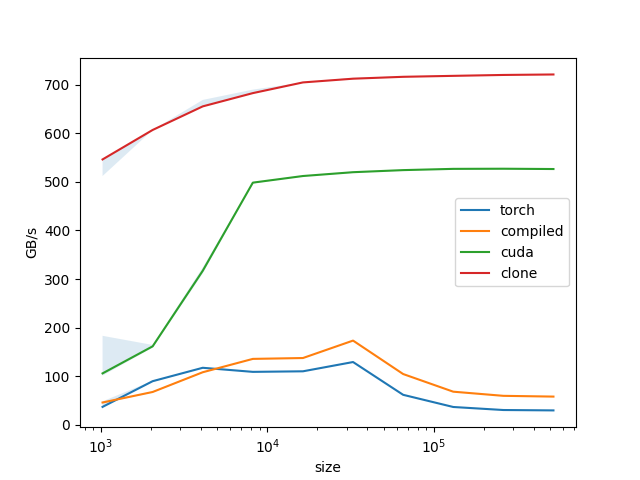
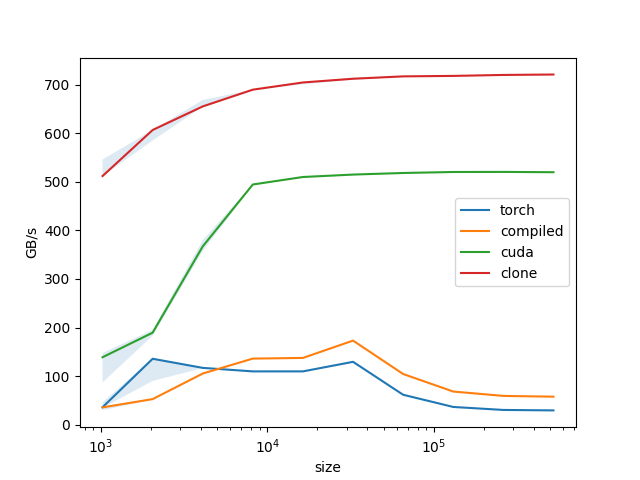
fixed illegal memory access bug

diff --git a/test/test.py b/test/test.py
@@ -1,8 +1,11 @@
-import torch
-from torch.nn import functional as F
-from extension_cpp.ops import causal_dw_conv1d
-import triton
 import sys
+import time
+
+import torch
+import triton
+from torch.nn import functional as F
+
+from extension_cpp.ops import causal_dw_conv1d
 
 
 def causal_dw_conv1d_ref(input, kernel):
@@ -31,7 +34,8 @@ output_1 = output.detach().clone()
 output.backward(gradient)
 input_grad = input.grad.clone()
 k_grad = kernel.grad.clone()
-zero_grad(input, kernel)
+input.grad.zero_()
+kernel.grad.zero_()
 
 with torch.autocast('cuda'):
     output = causal_dw_conv1d_ref(input, kernel)
@@ -39,7 +43,6 @@ output_ref = output.detach().clone()
 output.backward(gradient)
 input_grad_ref = input.grad.clone()
 k_grad_ref = kernel.grad.clone()
-zero_grad(input, kernel)
 
 assert torch.allclose(output_1, output_ref, rtol=1e-3, atol=1e-2)
 assert torch.allclose(k_grad, k_grad_ref, rtol=1e-3, atol=1e-2)
@@ -52,15 +55,13 @@ def do_backward(layer, args, gradient, forward_only=False):
             with torch.no_grad():
                 return layer(*args)
         output = layer(*args)
-        
-    output.backward(gradient)
-    zero_grad(*args)
     
+    output.backward(gradient)
 
 @triton.testing.perf_report(
     triton.testing.Benchmark(
         x_names=['size'],  # Argument names to use as an x-axis for the plot.
-        x_vals=[2**i for i in range(10, 18, 1)],  # Different possible values for `x_name`.
+        x_vals=[2**i for i in range(10, 20, 1)],  # Different possible values for `x_name`.
         x_log=True,  # x axis is logarithmic.
         line_arg='provider',  # Argument name whose value corresponds to a different line in the plot.
         line_vals=['torch', 'compiled', 'cuda', 'clone'],  # Possible values for `line_arg`.
@@ -73,7 +74,6 @@ def do_backward(layer, args, gradient, forward_only=False):
 
 def benchmark(size, provider, forward_only=False):
     input = torch.rand((batch, size, channels), device='cuda', requires_grad=True, dtype=torch.half)
-    input_float = input.detach().float()
     kernel = torch.rand((4, channels), device='cuda', requires_grad=True)
     gradient = torch.rand_like(input.detach())
     
@@ -88,13 +88,14 @@ def benchmark(size, provider, forward_only=False):
         )
     if provider == 'cuda':
         ms, min_ms, max_ms = triton.testing.do_bench(
-            lambda: do_backward(causal_dw_conv1d, (input, kernel), gradient, forward_only=forward_only), quantiles=quantiles
+            lambda: do_backward(causal_dw_conv1d, (input, kernel), gradient, forward_only=forward_only), quantiles=quantiles, 
         )
     if provider == 'clone':
         ms, min_ms, max_ms = triton.testing.do_bench(lambda: input.clone(), quantiles=quantiles)
         
     scale = 2 if (provider == 'clone' or forward_only) else 8
     gbps = lambda ms: scale * input.numel() * input.element_size() * 1e-9 / (ms * 1e-3)
+    
     return gbps(ms), gbps(max_ms), gbps(min_ms)
 
 

diff --git a/extension_cpp/ops.py b/extension_cpp/ops.py
@@ -2,7 +2,7 @@ import torch
 from triton import cdiv
 
 
-BL = 32
+BL = 24
 KERNEL_SIZE = 4
 
 
@@ -23,7 +23,6 @@ class CausalDwConv1d(torch.autograd.Function):
         grad_input = torch.empty_like(grad_output)
         grad_kernel = torch.empty((KERNEL_SIZE, batch, cdiv(length, BL - 2 * KERNEL_SIZE), channels), 
                                   dtype=kernel.dtype, device=kernel.device)
-        
         torch.ops.extension_cpp.causal_dw_conv1d_bwd.default(input, kernel, grad_output, grad_input, grad_kernel)
         grad_kernel = grad_kernel.sum((1, 2))  # (k, chs)
         return grad_input, grad_kernel
